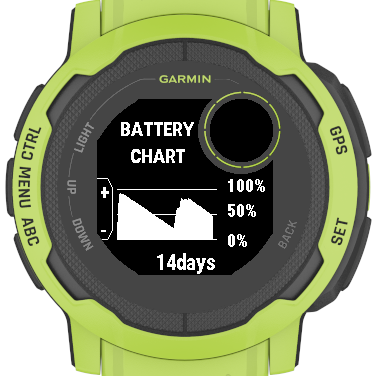
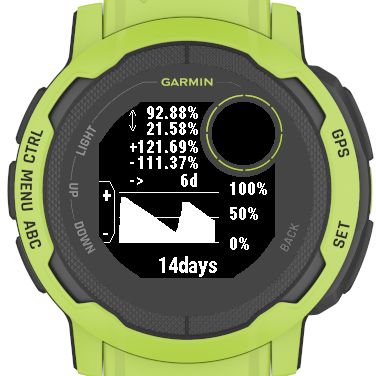
show calculation in Graph View (#20)

diff --git a/README.md b/README.md
@@ -12,28 +12,57 @@ I don't know exactly how Garmin predicts how long the battery of a watch would l
 
 During a longer activity you can check how much battery charge you have lost so far in the last x minutes/hours and see how long your battery would last if you keep on using it the same way.
 
-Also this app shows you nicely if you have gained any battery charge by solar.
-
-## How it works:
-
-The battery status is collected every 15min and then used to calculate the battery drain between those data-points. The app displays how much the battery was charged/discharged over time (15min - 24h) and calculates how long the battery would last if the battery would be discharged at the same rate like on average during the displayed period.
-
-The prediction is rather pessimistic, so it will always floor decimal results (an estimation of 5.9h will show 5h)
+Also, this app shows you nicely if you have gained any battery charge by solar.
 
 ## Screenshots
+
 ![glance](screenshots/glance.png)
 ![battery chart](screenshots/battery-chart.png)
 ![battery chart 14days](screenshots/battery-chart-14d.png)
 ![details 15min](screenshots/details-15min.png)
 ![details 21h](screenshots/details-21h.png)
 
+## How it works:
+
+The battery status is collected every 15min in the background and this date is used to
+1. show the battery charge/discharge over time
+2. calculate how long the battery might last
+3. show a graph of the battery status
 
 ## Usage
+
 - add the app to your glance carousel
+- the glance view shows the charge/discharge in the last 15/30 min and prediction based on that data
 - in the glance view press the GPS button to view details of different time periods
 - in the details view use the UP/DOWN buttons to cycle through the different time periods
 - in the details view press the GPS button to view the battery graph
 - in the graph view use the UP/DOWN buttons to cycle through the different time periods
+
+## Different predictions of how much longer the battery will last
+
+### 1. Glance and Details View
+
+In the glance and the details view the app compares the latest saved battery state to the selected point in time (e.g 24h in the past), it shows the charge/discharge for that period and predicts how long the battery would last assuming a linear discharge for the selected time frame and for the future.
+
+### 2. Graph View
+
+In the graph view the app accumulates all charging and all discharging for that particular time frame, and besides the graph it shows:
+1. the maximum/minimum charge in the selected time frame
+2. cumulated charge/discharge for the time frame
+3. prediction for how long the battery will last given the discharge in the future will be similar to the cumulated discharge for the selected time frame
+
+### Which prediction is better?
+
+It depends!
+
+The calculation for the glance view and the details view is very quick, but if you have recharged the battery in between it might be useless. E.g. 14 days ago the battery had 60% charge left, during the next 7 days it got discharged down to 10%, then recharged to 100% and is currently standing at 59%. For the time-frame of 14 days the glance and the details view would only check the oldest and newest data point, seeing 1% of discharge over 14days and so calculating a useless high "time left" value.
+The algorithm in the graph view is much slower, because every single data-point must be read and calculated, but for the prediction it ignores all charging times, so in the example above it would calculate the time left based on 91% discharge over 14 days.
+
+If you in a battery consuming activity and want to know how long the battery would last in this activity, the glance and details view calculation should be just fine. Also, if your watch recharges during the day by solar, and you assume similar solar input for the future, the glance and details view will give you a good idea about how long the battery will last.
+
+For the case that you have recharged your watch with the cable, or you don't expect much solar input for the future (or your watch does not have solar in the first place) the prediction in the graph view will give you a better idea for a long-term prediction, but it will take longer to get the results.
+
+In both cases the prediction is rather pessimistic, so it will always floor decimal results (an estimation of 5.9h will show 5h)
 
 ## supported devices
 - Garmin Instinct 2 Series
@@ -46,7 +75,6 @@ If you think that tool would be also useful on your device please open an issue 
 
 ## limitations / issues
 - only calculates battery change till the last recorded data point not till now (this data can be already nearly 15min old)
-- in case the battery is recharged the prediction values become useless. see #16
 
 ## future ideas
 see: https://github.com/individual-it/BatteryGuesstimate/issues
